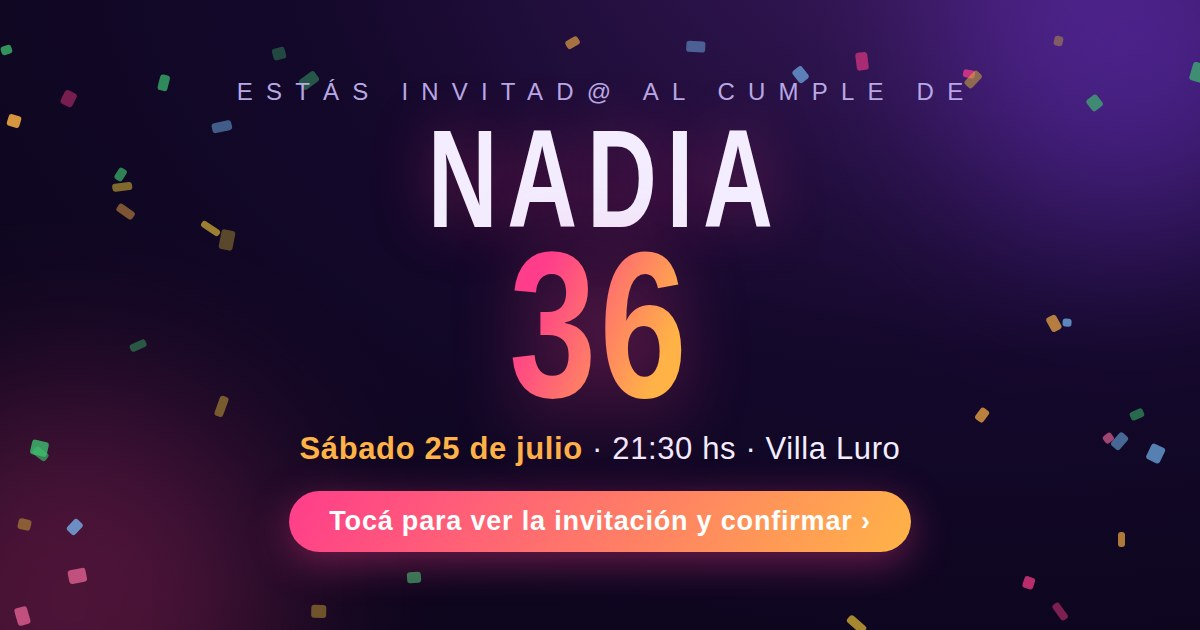
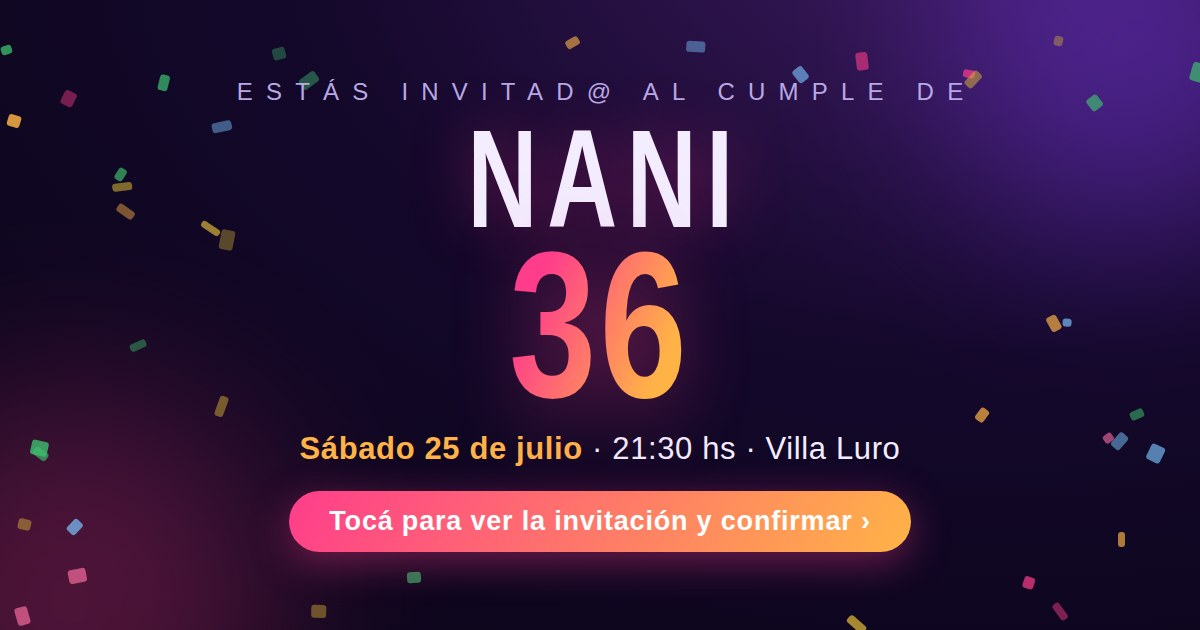
Panel de administración de la invitación (#7)
- Nueva tabla evento_config + RPC actualizar_evento protegida por PIN
- La invitación carga la config al abrir (nombre Nani, tema, dress code, frase)
- Acompañantes: campo numérico libre (1-10) en vez de selector fijo
- Imagen OG regenerada con NANI

Claude-Session: https://claude.ai/code/session_01HsyxwkePzKKdNaxpVeQ2rj

Changed region(s): [[0.3392, 0.181, 0.6475, 0.3619]]

diff --git a/cumple-nadia/mi-panel-x7k2.html b/cumple-nadia/mi-panel-x7k2.html
@@ -3,7 +3,7 @@
 <head>
 <meta charset="UTF-8">
 <meta name="viewport" content="width=device-width, initial-scale=1.0">
-<title>Panel de Nadia 👑</title>
+<title>Panel de Nani 👑</title>
 <meta name="robots" content="noindex,nofollow">
 <link href="https://fonts.googleapis.com/css2?family=Bebas+Neue&family=Jost:wght@300;400;500;600&display=swap" rel="stylesheet">
 <style>
@@ -34,11 +34,22 @@
   .note a{color:#ff3d8b}
   .empty{color:#b9a8e6;text-align:center;padding:10px 0}
   .err{display:none;background:rgba(224,82,82,.12);border:1px solid #e05252;color:#ffb3b3;border-radius:12px;padding:12px;margin-top:14px;font-size:.9rem;text-align:center}
+  .flbl{display:block;font-size:.82rem;color:#b9a8e6;margin:14px 0 6px;font-weight:500}
+  .fin{width:100%;padding:12px 14px;border-radius:12px;border:1.5px solid #3d2a6b;background:transparent;color:#f3edff;font-family:'Jost',system-ui,sans-serif;font-size:1rem}
+  .fin:focus{outline:2px solid #ff3d8b;outline-offset:1px}
+  .tbtns{display:grid;grid-template-columns:1fr 1fr;gap:8px}
+  .tbtn{border:1.5px solid #3d2a6b;background:transparent;color:#f3edff;border-radius:12px;padding:11px 8px;cursor:pointer;font-family:'Jost',system-ui,sans-serif;font-size:.9rem}
+  .tbtn.sel{border-color:#ff3d8b;background:rgba(255,61,139,.14);font-weight:600}
+  .savebtn{width:100%;margin-top:16px;padding:14px;border:none;border-radius:12px;background:linear-gradient(120deg,#ff3d8b,#ffb347);color:#fff;font-size:1rem;font-weight:700;cursor:pointer;font-family:'Jost',system-ui,sans-serif}
+  .savebtn:disabled{opacity:.5;cursor:wait}
+  .cfgmsg{display:none;text-align:center;border-radius:12px;padding:11px;margin-top:12px;font-size:.9rem}
+  .cfgmsg.ok{display:block;border:1px solid #3dbb6e;color:#a4f0c3;background:rgba(61,187,110,.12)}
+  .cfgmsg.bad{display:block;border:1px solid #e05252;color:#ffb3b3;background:rgba(224,82,82,.12)}
 </style>
 </head>
 <body>
 <div class="wrap">
-  <h1>Panel de Nadia 👑</h1>
+  <h1 id="panelTitle">Panel de Nani 👑</h1>
   <p class="sub">Este link es solo tuyo. A los invitados compartiles el otro (index).</p>
 
   <div class="card">
@@ -55,6 +66,28 @@
   <div class="card">
     <h2>Lista de invitados</h2>
     <div id="guestList"><p class="empty">Todavía nadie confirmó. ¡Compartí el link!</p></div>
+  </div>
+
+  <div class="card">
+    <h2>Editar invitación ✏</h2>
+    <label class="flbl" for="cfgNombre">Nombre que se muestra en grande</label>
+    <input class="fin" type="text" id="cfgNombre" maxlength="20" placeholder="Ej: Nani">
+    <label class="flbl" for="cfgFrase">Frase de la portada</label>
+    <input class="fin" type="text" id="cfgFrase" maxlength="80" placeholder="¡Y lo festejamos a lo grande! 🥂">
+    <label class="flbl" for="cfgDress">Dress code</label>
+    <input class="fin" type="text" id="cfgDress" maxlength="80" placeholder="Vení con ganas de bailar 💃">
+    <label class="flbl">Estilo / diseño de la invitación</label>
+    <div class="tbtns">
+      <button class="tbtn" data-t="noche">🌃 Noche neón</button>
+      <button class="tbtn" data-t="elegante">✨ Elegante dorado</button>
+      <button class="tbtn" data-t="pastel">🎀 Pastel festivo</button>
+      <button class="tbtn" data-t="minimal">◻ Minimal chic</button>
+    </div>
+    <label class="flbl" for="cfgPin">PIN de administración</label>
+    <input class="fin" type="password" id="cfgPin" inputmode="numeric" maxlength="6" placeholder="6 dígitos" autocomplete="off">
+    <button class="savebtn" id="cfgSave">Guardar cambios</button>
+    <div class="cfgmsg" id="cfgMsg"></div>
+    <p class="note" style="text-align:center">Los cambios se ven al instante en la invitación (los invitados los ven al recargar).</p>
   </div>
 </div>
 
@@ -126,6 +159,63 @@
   render();
   setInterval(render,15000);
   document.getElementById('refreshNow').addEventListener('click',function(e){ e.preventDefault(); render(); });
+
+  /* ===== Editar invitación ===== */
+  var temaSel = 'noche';
+  var tbtns = document.querySelectorAll('.tbtn');
+  function marcarTema(t){
+    temaSel = t;
+    for(var i=0;i<tbtns.length;i++) tbtns[i].classList.toggle('sel', tbtns[i].getAttribute('data-t')===t);
+  }
+  for(var b=0;b<tbtns.length;b++){
+    tbtns[b].addEventListener('click', function(){ marcarTema(this.getAttribute('data-t')); });
+  }
+
+  fetch(SUPABASE_URL + '/rest/v1/evento_config?id=eq.1&select=*', {headers:HEADERS})
+    .then(function(r){ return r.json(); })
+    .then(function(rows){
+      var c = rows && rows[0];
+      if(!c) return;
+      document.getElementById('cfgNombre').value = c.nombre || '';
+      document.getElementById('cfgFrase').value  = c.frase || '';
+      document.getElementById('cfgDress').value  = c.dress_code || '';
+      marcarTema(c.tema || 'noche');
+      document.getElementById('panelTitle').textContent = 'Panel de ' + (c.nombre || 'Nani') + ' 👑';
+      document.title = 'Panel de ' + (c.nombre || 'Nani') + ' 👑';
+    }).catch(function(){});
+
+  document.getElementById('cfgPin').value = localStorage.getItem('adminPin') || '';
+
+  document.getElementById('cfgSave').addEventListener('click', function(){
+    var btn = this, msg = document.getElementById('cfgMsg');
+    var pin = document.getElementById('cfgPin').value.trim();
+    msg.className = 'cfgmsg';
+    if(!pin){ msg.textContent = 'Poné el PIN de administración.'; msg.className = 'cfgmsg bad'; return; }
+    btn.disabled = true; btn.textContent = 'Guardando...';
+    fetch(SUPABASE_URL + '/rest/v1/rpc/actualizar_evento', {
+      method: 'POST',
+      headers: { 'apikey': SUPABASE_KEY, 'Authorization': 'Bearer ' + SUPABASE_KEY, 'Content-Type': 'application/json' },
+      body: JSON.stringify({
+        _pin: pin,
+        _nombre: document.getElementById('cfgNombre').value,
+        _tema: temaSel,
+        _dress: document.getElementById('cfgDress').value,
+        _frase: document.getElementById('cfgFrase').value
+      })
+    }).then(function(res){
+      if(!res.ok) throw new Error('HTTP ' + res.status);
+      localStorage.setItem('adminPin', pin);
+      var nom = document.getElementById('cfgNombre').value.trim() || 'Nani';
+      document.getElementById('panelTitle').textContent = 'Panel de ' + nom + ' 👑';
+      msg.textContent = '¡Guardado! La invitación ya muestra los cambios. ✨';
+      msg.className = 'cfgmsg ok';
+    }).catch(function(){
+      msg.textContent = 'No se pudo guardar: PIN incorrecto o problema de conexión.';
+      msg.className = 'cfgmsg bad';
+    }).finally(function(){
+      btn.disabled = false; btn.textContent = 'Guardar cambios';
+    });
+  });
 })();
 </script>
 </body>

diff --git a/cumple-nadia/index.html b/cumple-nadia/index.html
@@ -3,12 +3,12 @@
 <head>
 <meta charset="UTF-8">
 <meta name="viewport" content="width=device-width, initial-scale=1.0">
-<title>Nadia cumple 36 · ¡Estás invitad@!</title>
-<meta property="og:title" content="🎂 ¡Nadia cumple 36!">
+<title>Nani cumple 36 · ¡Estás invitad@!</title>
+<meta property="og:title" content="🎂 ¡Nani cumple 36!">
 <meta property="og:description" content="Sábado 25 de julio · 21:30 hs · Villa Luro. Entrá y confirmá tu asistencia 🎉">
 <meta property="og:type" content="website">
 <meta property="og:url" content="https://maxifercotizador.github.io/Tomas-Memorial/cumple-nadia/">
-<meta property="og:image" content="https://maxifercotizador.github.io/Tomas-Memorial/cumple-nadia/og-image.jpg?v=1">
+<meta property="og:image" content="https://maxifercotizador.github.io/Tomas-Memorial/cumple-nadia/og-image.jpg?v=2">
 <meta property="og:image:width" content="1200">
 <meta property="og:image:height" content="630">
 <meta name="twitter:card" content="summary_large_image">
@@ -152,9 +152,9 @@
 
   <p class="eyebrow">Estás invitad@ al cumple de</p>
   <div class="hero">
-    <div class="name">NADIA</div>
+    <div class="name" id="heroName">NANI</div>
     <span class="num36">36</span>
-    <p class="sub">¡Y lo festejamos a lo grande! 🥂</p>
+    <p class="sub" id="heroSub">¡Y lo festejamos a lo grande! 🥂</p>
   </div>
 
   <div class="card">
@@ -187,20 +187,14 @@
     </div>
 
     <div id="compRow" style="display:none">
-      <label for="compSel">¿Cuántas personas te acompañan?</label>
-      <select id="compSel">
-        <option value="1">1 acompañante</option>
-        <option value="2">2 acompañantes</option>
-        <option value="3">3 acompañantes</option>
-        <option value="4">4 acompañantes</option>
-        <option value="5">5 acompañantes</option>
-      </select>
+      <label for="compNum">¿Cuántas personas te acompañan? (escribí el número)</label>
+      <input type="number" id="compNum" min="1" max="10" step="1" value="1" inputmode="numeric" placeholder="Ej: 2">
     </div>
 
     <label for="guestName">Tu nombre y apellido</label>
     <input type="text" id="guestName" placeholder="Ej: Caro Fernández" autocomplete="name" maxlength="60">
 
-    <label for="guestMsg">Dejale un mensajito a Nadia (opcional)</label>
+    <label for="guestMsg" id="msgLabel">Dejale un mensajito a Nani (opcional)</label>
     <textarea id="guestMsg" placeholder="¡Feliz cumple! 🎂" maxlength="300"></textarea>
 
     <button class="primary" id="sendBtn">Confirmar asistencia</button>
@@ -234,6 +228,23 @@
     'Authorization': 'Bearer ' + SUPABASE_KEY,
     'Content-Type': 'application/json'
   };
+
+  /* ===== Config editable desde el panel de administración ===== */
+  var NOMBRE = 'Nani';
+  fetch(SUPABASE_URL + '/rest/v1/evento_config?id=eq.1&select=*', {headers:HEADERS})
+    .then(function(r){ return r.json(); })
+    .then(function(rows){
+      var c = rows && rows[0];
+      if(!c) return;
+      NOMBRE = c.nombre || NOMBRE;
+      if(location.hash !== '#estilos') document.body.setAttribute('data-theme', c.tema || THEME);
+      document.getElementById('heroName').textContent = NOMBRE.toUpperCase();
+      if(c.frase) document.getElementById('heroSub').textContent = c.frase;
+      document.getElementById('dressCodeText').textContent = c.dress_code || DRESS_CODE;
+      document.getElementById('msgLabel').textContent = 'Dejale un mensajito a ' + NOMBRE + ' (opcional)';
+      document.title = NOMBRE + ' cumple 36 · ¡Estás invitad@!';
+    })
+    .catch(function(){ /* si falla, quedan los textos por defecto */ });
 
   /* ===== Preview de estilos con #estilos ===== */
   if(location.hash === '#estilos'){
@@ -276,10 +287,10 @@
       'UID:nadia36-20260725@invitacion',
       'DTSTART:20260726T003000Z',
       'DTEND:20260726T053000Z',
-      'SUMMARY:🎂 Cumple de Nadia (36)',
+      'SUMMARY:🎂 Cumple de Nani (36)',
       'LOCATION:Av. Rivadavia 10653\\, Villa Luro\\, CABA',
-      'DESCRIPTION:¡Festejamos los 36 de Nadia!',
-      'BEGIN:VALARM','TRIGGER:-P1D','ACTION:DISPLAY','DESCRIPTION:Mañana es el cumple de Nadia 🎉','END:VALARM',
+      'DESCRIPTION:¡Festejamos los 36 de Nani!',
+      'BEGIN:VALARM','TRIGGER:-P1D','ACTION:DISPLAY','DESCRIPTION:Mañana es el cumple de Nani 🎉','END:VALARM',
       'END:VEVENT','END:VCALENDAR'
     ].join('\r\n');
     document.getElementById('icsBtn').href = 'data:text/calendar;charset=utf-8,'+encodeURIComponent(ics);
@@ -307,10 +318,15 @@
     err.style.display='none';
 
     if(!selectedStatus){ err.textContent='Elegí una opción arriba 👆'; err.style.display='block'; return; }
-    if(!name){ err.textContent='Poné tu nombre así Nadia sabe quién sos 😊'; err.style.display='block'; return; }
-    if(SUPABASE_URL.indexOf('PEGAR_ACA')===0){ err.textContent='Falta configurar la base de datos (SUPABASE_URL).'; err.style.display='block'; return; }
+    if(!name){ err.textContent='Poné tu nombre así '+NOMBRE+' sabe quién sos 😊'; err.style.display='block'; return; }
 
-    var companions = selectedStatus==='acompanada' ? parseInt(document.getElementById('compSel').value,10) : 0;
+    var companions = 0;
+    if(selectedStatus==='acompanada'){
+      companions = parseInt(document.getElementById('compNum').value,10);
+      if(isNaN(companions) || companions < 1 || companions > 10){
+        err.textContent='Escribí cuántas personas te acompañan (entre 1 y 10) 👯'; err.style.display='block'; return;
+      }
+    }
     btn.disabled = true; btn.textContent='Enviando...';
 
     fetch(API, {
